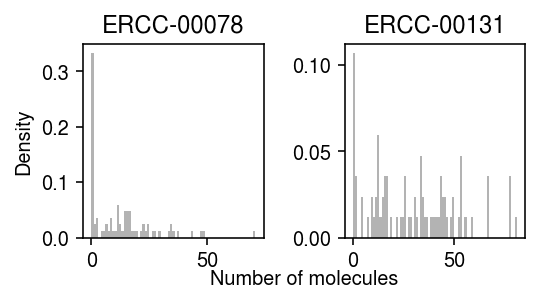
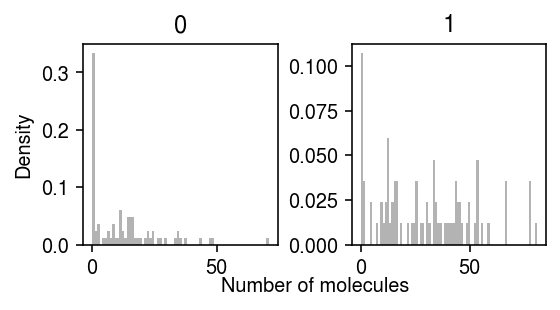
Rerun unimodal/NPMLE on control data

diff --git a/docs/llr.html b/docs/llr.html
@@ -1,7 +1,7 @@
 <!DOCTYPE html>
 <html lang="en">
 <head>
-<!-- 2020-08-15 Sat 17:36 -->
+<!-- 2020-08-17 Mon 12:59 -->
 <meta charset="utf-8">
 <meta name="viewport" content="width=device-width, initial-scale=1">
 <title>Marginal log likelihood comparison of expression models</title>
@@ -431,8 +431,10 @@ Prepare the data in <code>h5ad</code>.
   <span class="org-string">'brain'</span>: 11744 // chunksize,
   <span class="org-string">'cytotoxic_t-b_cells'</span>: 6647 // chunksize,
   <span class="org-string">'cytotoxic_t-naive_t'</span>: 6246 // chunksize,
+  <span class="org-string">'ipsc'</span>: 9957 // chunksize,
   <span class="org-string">'kidney'</span>: 15496 // chunksize,
   <span class="org-string">'liver-caudate-lobe'</span>: 3181 // chunksize,
+  <span class="org-string">'pbmc_10k_v3'</span>: 12144 // chunksize,
   <span class="org-string">'retina'</span>: 10047 // chunksize,
 }
 
@@ -440,6 +442,36 @@ Prepare the data in <code>h5ad</code>.
 <span class="org-variable-name">non_control</span> = <span class="org-builtin">list</span>(data.keys())[5:]
 </pre>
 </div>
+
+<p>
+Report the dimensions of each data set.
+</p>
+
+<div class="org-src-container">
+<pre class="src src-ipython">pd.DataFrame([data[k]().shape <span class="org-keyword">for</span> k <span class="org-keyword">in</span> data],
+             columns=[<span class="org-string">'num_samples'</span>, <span class="org-string">'num_genes'</span>],
+             index=data.keys())
+</pre>
+</div>
+
+<pre class="example">
+num_samples  num_genes
+dropseq                       84         81
+indrops                      953        103
+chromium1                   2000         88
+chromium2                   2000         88
+gemcode                     1015         91
+cytotoxic_t                10209       6530
+b_cells                    10085       6417
+ipsc                        5597       9957
+cytotoxic_t-b_cells        20294       6647
+cytotoxic_t-naive_t        20688       6246
+pbmc_10k_v3                11769      12144
+liver-caudate-lobe          8856      16200
+kidney                     11233      15496
+brain                      14963      11744
+retina                     21285      10047
+</pre>
 </div>
 </div>
 
@@ -452,7 +484,7 @@ family of expression models.
 </p>
 
 <div class="org-src-container">
-<pre class="src src-sh" id="org7e39abd">sbatch --partition=broadwl -n1 -c28 --exclusive --job-name=llik --time=24:00:00 -a 10,25,40,53,61,62
+<pre class="src src-sh" id="org7e39abd">sbatch --partition=broadwl -n1 -c28 --exclusive --job-name=llik --time=24:00:00 -a 45-58
 <span class="org-comment-delimiter">#</span><span class="org-comment">!/bin/bash</span>
 <span class="org-builtin">source</span> activate scmodes
 python &lt;&lt;EOF
@@ -474,12 +506,24 @@ python &lt;&lt;EOF
 </div>
 
 <p>
+Fit non-parametric expression models serially for control data, to avoid
+memory issues.
+</p>
+
+<div class="org-src-container">
+<pre class="src src-ipython"><span class="org-keyword">for</span> d <span class="org-keyword">in</span> control:
+  (scmodes.benchmark.evaluate_llik(data[d](), methods=[<span class="org-string">'npmle'</span>], max_grid_updates=20, tol=1e-5)
+   .to_csv(f<span class="org-string">'/scratch/midway2/aksarkar/modes/llik/{d}-npmle.txt.gz'</span>, compression=<span class="org-string">'gzip'</span>, sep=<span class="org-string">'\t'</span>))
+</pre>
+</div>
+
+<p>
 Shard data sets to fit unimodal/non-parametric expression models within the
 <code>midway2</code> time/memory limits.
 </p>
 
 <div class="org-src-container">
-<pre class="src src-sh" id="org5dd3f6d">sbatch --partition=broadwl -n1 -c28 --exclusive --job-name=llik --time=24:00:00 -a 201-213,216,230
+<pre class="src src-sh" id="org5dd3f6d">sbatch --partition=broadwl -n1 -c28 --exclusive --job-name=llik --time=4:00:00 -a 0-146%16
 <span class="org-comment-delimiter">#</span><span class="org-comment">!/bin/bash</span>
 <span class="org-builtin">source</span> activate scmodes
 python &lt;&lt;EOF
@@ -634,9 +678,9 @@ method  dataset        gene        point        gamma  point_gamma  \
 2       gemcode  ERCC-00002 -6108.645264 -6148.879840 -6132.663007
 
 method     unimodal        npmle
-0       -263.565367  -261.759913
-1       -347.518213  -337.364384
-2      -5944.693604 -5944.555342
+0       -263.565367  -261.356008
+1       -347.518213  -337.359459
+2      -5944.693604 -5944.434618
 </pre>
 
 <div class="org-src-container">
@@ -644,8 +688,8 @@ method     unimodal        npmle
 plt.clf()
 <span class="org-variable-name">fig</span>, <span class="org-variable-name">ax</span> = plt.subplots(1, 2)
 fig.set_size_inches(4, 2.5)
-<span class="org-keyword">for</span> (k, _), a <span class="org-keyword">in</span> <span class="org-builtin">zip</span>(query.iterrows(), ax):
-  <span class="org-variable-name">y</span> = x[:,x.var[<span class="org-string">'index'</span>] == k].X.A.ravel()
+<span class="org-keyword">for</span> (k, row), a <span class="org-keyword">in</span> <span class="org-builtin">zip</span>(query.iterrows(), ax):
+  <span class="org-variable-name">y</span> = x[:,x.var[<span class="org-string">'index'</span>] == row[<span class="org-string">'gene'</span>]].X.A.ravel()
   a.hist(y, bins=np.arange(y.<span class="org-builtin">max</span>() + 2), density=<span class="org-constant">True</span>, color=<span class="org-string">'0.7'</span>)
   a.set_title(k)
 ax[0].set_ylabel(<span class="org-string">'Density'</span>)
@@ -686,11 +730,11 @@ res[[<span class="org-string">'point'</span>, <span class="org-string">'gamma'</
 <pre class="example">
 method     point  gamma  point_gamma  npmle
 dataset
-chromium1      0      0            0      0
-chromium2      0      0            0      0
+chromium1      4      4            4      4
+chromium2      4      4            5      5
 dropseq        0      0            0      1
-gemcode        0      0            0      0
-indrops        0      0            0      0
+gemcode        2      2            2      2
+indrops        3      3            3      3
 </pre>
 </div>
 </div>
@@ -933,7 +977,7 @@ retina               0.000199  0.017916     0.019011  0.039514
 </div>
 <div id="postamble" class="status">
 <p class="author">Author: Abhishek Sarkar</p>
-<p class="date">Created: 2020-08-15 Sat 17:36</p>
+<p class="date">Created: 2020-08-17 Mon 12:59</p>
 <p class="validation"><a href="http://validator.w3.org/check?uri=referer">Validate</a></p>
 </div>
 </body>
